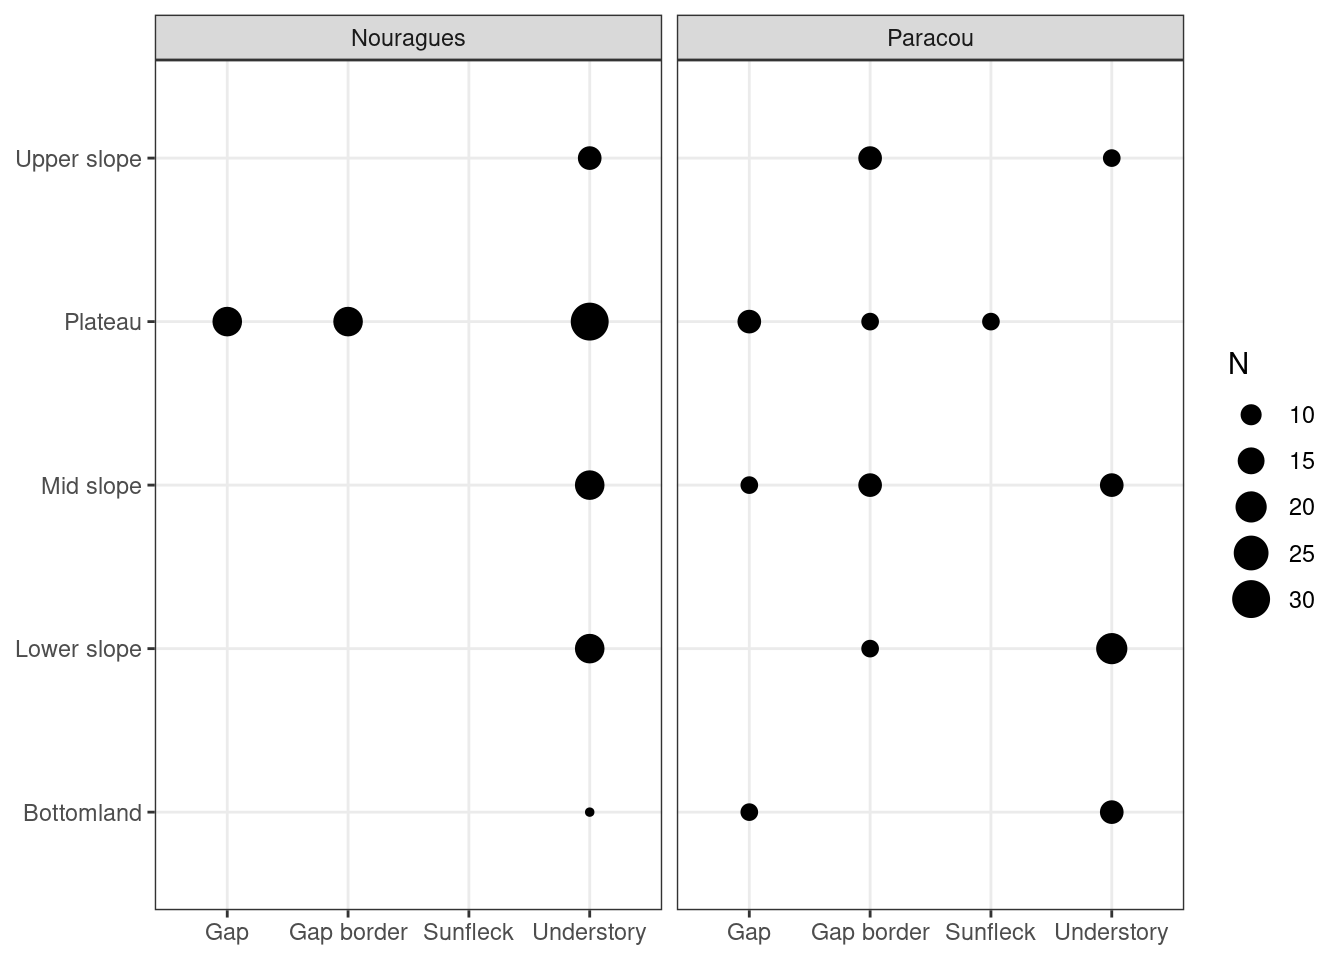
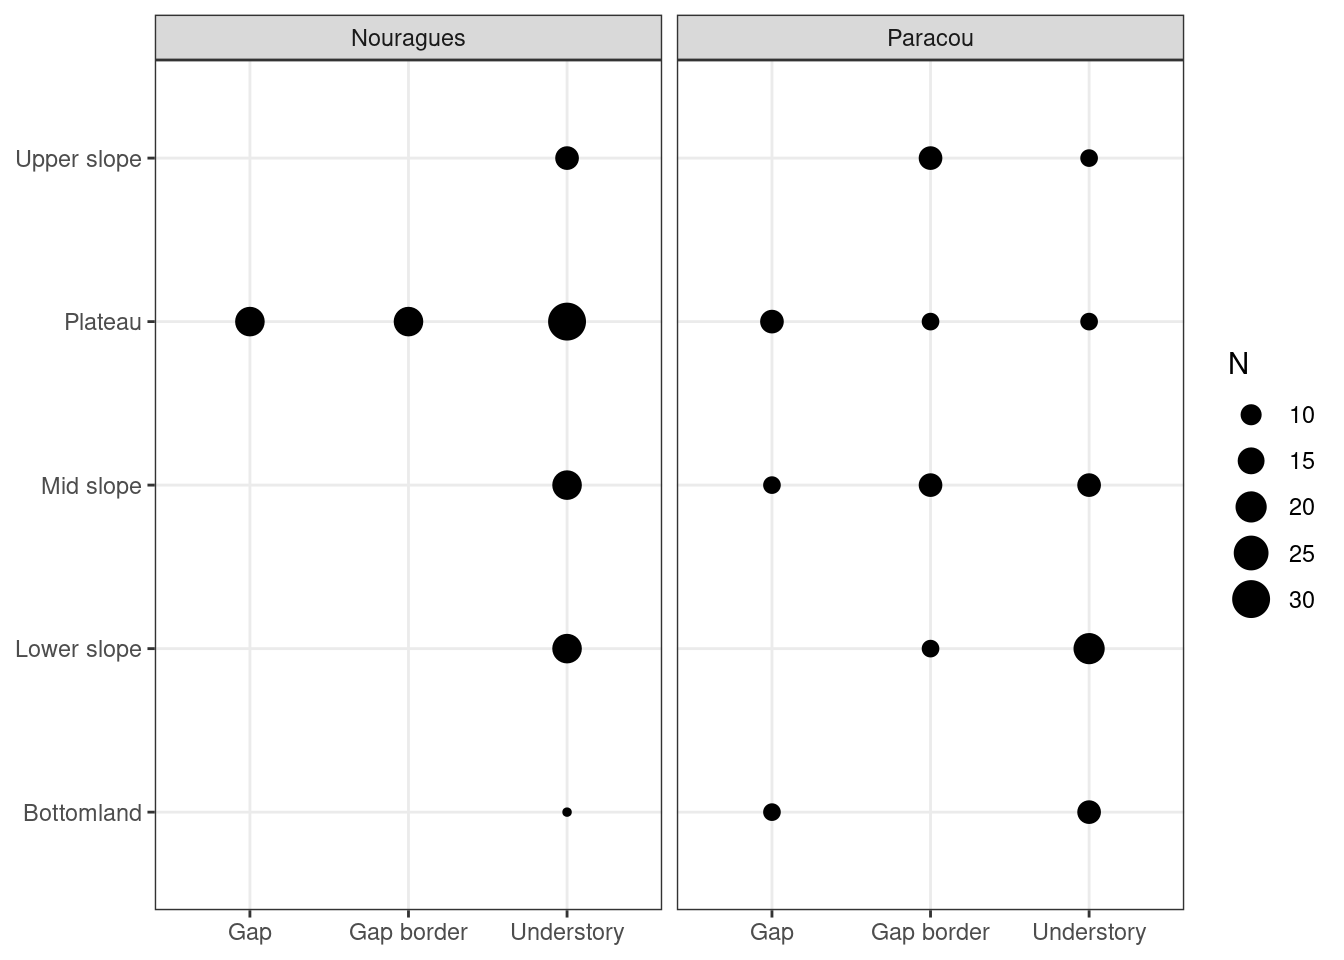
microclim 0.1.0.9002: data granulometry

diff --git a/docs/01_data.html b/docs/01_data.html
@@ -259,7 +259,8 @@ pre > code.sourceCode > span > a:first-child::before { text-decoration: underlin
 <span id="cb1-27"><a href="#cb1-27" aria-hidden="true" tabindex="-1"></a>  <span class="fu">mutate</span>(<span class="at">date =</span> <span class="fu">as_date</span>(<span class="fu">as.POSIXct</span>(date, <span class="at">format =</span> <span class="st">"%d-%m-%Y"</span>))) <span class="sc">%&gt;%</span> </span>
 <span id="cb1-28"><a href="#cb1-28" aria-hidden="true" tabindex="-1"></a>  <span class="fu">mutate</span>(<span class="at">info_date =</span> <span class="fu">as_date</span>(<span class="fu">as.POSIXct</span>(info_date, <span class="at">format =</span> <span class="st">"%d_%m_%Y"</span>)))</span>
 <span id="cb1-29"><a href="#cb1-29" aria-hidden="true" tabindex="-1"></a><span class="fu">bind_rows</span>(nouragues, paracou) <span class="sc">%&gt;%</span> </span>
-<span id="cb1-30"><a href="#cb1-30" aria-hidden="true" tabindex="-1"></a>  <span class="fu">write_tsv</span>(<span class="st">"outputs/tomst_infos.tsv"</span>)</span></code><button title="Copy to Clipboard" class="code-copy-button"><i class="bi"></i></button></pre></div>
+<span id="cb1-30"><a href="#cb1-30" aria-hidden="true" tabindex="-1"></a>  <span class="fu">mutate</span>(<span class="at">light =</span> <span class="fu">recode</span>(light, <span class="st">"Sunfleck"</span> <span class="ot">=</span> <span class="st">"Understory"</span>)) <span class="sc">%&gt;%</span> </span>
+<span id="cb1-31"><a href="#cb1-31" aria-hidden="true" tabindex="-1"></a>  <span class="fu">write_tsv</span>(<span class="st">"outputs/tomst_infos.tsv"</span>)</span></code><button title="Copy to Clipboard" class="code-copy-button"><i class="bi"></i></button></pre></div>
 </details>
 </div>
 <div class="cell">
@@ -289,16 +290,16 @@ pre > code.sourceCode > span > a:first-child::before { text-decoration: underlin
 <li><strong>plot</strong>: Petit Plateau or P16</li>
 <li><strong>subplot</strong>: subplot number</li>
 <li><strong>tomst_id</strong>: tomst ID</li>
-<li><strong>tomst_sensornum</strong>: ?</li>
+<li><strong>tomst_sensornum</strong>: tomst manufacturer ID</li>
 <li><strong>transect</strong>: gap or topography effect</li>
 <li><strong>light:</strong> gap type</li>
 <li><strong>topography</strong>: topography type</li>
 <li><strong>layon</strong>: is it near the layon</li>
-<li><strong>date</strong>: installation date?</li>
+<li><strong>date</strong>: installation date</li>
 <li><strong>operator</strong>: Vincyane or Jérôme</li>
 <li><strong>closest_trees</strong>: closest tree number in Nouragues or the three closest tree numbers and distances for Paracou (number:distance)</li>
 <li><strong>gps</strong>: gps coordinates in Nouragues</li>
-<li><strong>after_gap</strong>: ?</li>
+<li><strong>after_gap</strong>: before of after the Nouragues’ gap</li>
 <li><strong>info_date</strong>: date for the information</li>
 <li><strong>info</strong>: information on the tomst</li>
 </ul>
@@ -355,6 +356,51 @@ pre > code.sourceCode > span > a:first-child::before { text-decoration: underlin
 </section>
 <section id="granulometry" class="level2">
 <h2 class="anchored" data-anchor-id="granulometry">Granulometry</h2>
+<div class="cell">
+<details>
+<summary>Code</summary>
+<div class="sourceCode cell-code" id="cb5"><pre class="sourceCode r code-with-copy"><code class="sourceCode r"><span id="cb5-1"><a href="#cb5-1" aria-hidden="true" tabindex="-1"></a>nouragues <span class="ot">&lt;-</span> <span class="fu">vroom</span>(<span class="st">"data/Tomst_humidity_granulo_parameters/Nouragues_Tomst_humidity_granulo_parameters.csv"</span>) <span class="sc">%&gt;%</span> </span>
+<span id="cb5-2"><a href="#cb5-2" aria-hidden="true" tabindex="-1"></a>  <span class="fu">rename_all</span>(tolower) <span class="sc">%&gt;%</span> </span>
+<span id="cb5-3"><a href="#cb5-3" aria-hidden="true" tabindex="-1"></a>  <span class="fu">select</span>(<span class="sc">-</span><span class="st">"...1"</span>) <span class="sc">%&gt;%</span> </span>
+<span id="cb5-4"><a href="#cb5-4" aria-hidden="true" tabindex="-1"></a>  <span class="fu">mutate</span>(<span class="at">site =</span> <span class="st">"Nouragues"</span>)</span>
+<span id="cb5-5"><a href="#cb5-5" aria-hidden="true" tabindex="-1"></a>paracou <span class="ot">&lt;-</span> <span class="fu">vroom</span>(<span class="st">"data/Tomst_humidity_granulo_parameters/Paracou_Tomst_humidity_granulo_parameters.csv"</span>) <span class="sc">%&gt;%</span> </span>
+<span id="cb5-6"><a href="#cb5-6" aria-hidden="true" tabindex="-1"></a>  <span class="fu">rename_all</span>(tolower) <span class="sc">%&gt;%</span> </span>
+<span id="cb5-7"><a href="#cb5-7" aria-hidden="true" tabindex="-1"></a>  <span class="fu">select</span>(<span class="sc">-</span><span class="st">"...1"</span>) <span class="sc">%&gt;%</span> </span>
+<span id="cb5-8"><a href="#cb5-8" aria-hidden="true" tabindex="-1"></a>  <span class="fu">mutate</span>(<span class="at">site =</span> <span class="st">"Paracou"</span>)</span>
+<span id="cb5-9"><a href="#cb5-9" aria-hidden="true" tabindex="-1"></a><span class="fu">bind_rows</span>(nouragues, paracou) <span class="sc">%&gt;%</span> </span>
+<span id="cb5-10"><a href="#cb5-10" aria-hidden="true" tabindex="-1"></a>  <span class="fu">rename</span>(<span class="at">clay =</span> argiles, <span class="at">sand =</span> sables, <span class="at">silt =</span> limons) <span class="sc">%&gt;%</span> </span>
+<span id="cb5-11"><a href="#cb5-11" aria-hidden="true" tabindex="-1"></a>  <span class="fu">select</span>(<span class="sc">-</span>sum_st) <span class="sc">%&gt;%</span> </span>
+<span id="cb5-12"><a href="#cb5-12" aria-hidden="true" tabindex="-1"></a>  <span class="fu">write_tsv</span>(<span class="st">"outputs/granulo.tsv"</span>)</span></code><button title="Copy to Clipboard" class="code-copy-button"><i class="bi"></i></button></pre></div>
+</details>
+</div>
+<div class="cell">
+<details>
+<summary>Code</summary>
+<div class="sourceCode cell-code" id="cb6"><pre class="sourceCode r code-with-copy"><code class="sourceCode r"><span id="cb6-1"><a href="#cb6-1" aria-hidden="true" tabindex="-1"></a><span class="fu">read_tsv</span>(<span class="st">"outputs/granulo.tsv"</span>) <span class="sc">%&gt;%</span> </span>
+<span id="cb6-2"><a href="#cb6-2" aria-hidden="true" tabindex="-1"></a>  <span class="fu">gather</span>(variable, value, <span class="sc">-</span>topography, <span class="sc">-</span>site) <span class="sc">%&gt;%</span> </span>
+<span id="cb6-3"><a href="#cb6-3" aria-hidden="true" tabindex="-1"></a>  <span class="fu">ggplot</span>(<span class="fu">aes</span>(site, value, <span class="at">fill =</span> topography)) <span class="sc">+</span></span>
+<span id="cb6-4"><a href="#cb6-4" aria-hidden="true" tabindex="-1"></a>  <span class="fu">geom_col</span>(<span class="at">position =</span> <span class="st">"dodge"</span>) <span class="sc">+</span></span>
+<span id="cb6-5"><a href="#cb6-5" aria-hidden="true" tabindex="-1"></a>  <span class="fu">facet_wrap</span>(<span class="sc">~</span> variable, <span class="at">scales =</span> <span class="st">"free_y"</span>) <span class="sc">+</span></span>
+<span id="cb6-6"><a href="#cb6-6" aria-hidden="true" tabindex="-1"></a>  <span class="fu">theme_bw</span>() <span class="sc">+</span></span>
+<span id="cb6-7"><a href="#cb6-7" aria-hidden="true" tabindex="-1"></a>  <span class="fu">theme</span>(<span class="at">legend.position =</span> <span class="st">"bottom"</span>, <span class="at">axis.title =</span> <span class="fu">element_blank</span>())</span></code><button title="Copy to Clipboard" class="code-copy-button"><i class="bi"></i></button></pre></div>
+</details>
+<div class="cell-output-display">
+<div class="quarto-figure quarto-figure-center">
+<figure class="figure">
+<p><img src="01_data_files/figure-html/granulofig-1.png" class="img-fluid figure-img" width="672"></p>
+<figcaption class="figure-caption">Caption.</figcaption>
+</figure>
+</div>
+</div>
+</div>
+<p>Variables:</p>
+<ul>
+<li><strong>site</strong>: Paracou or Nouragues</li>
+<li><strong>topography</strong>: topography type</li>
+<li><strong>silt, clay, sand</strong>: silt, clay, sand content (%)</li>
+<li><strong>bulkdensity</strong>: bulk density (g/cm3)</li>
+<li><strong>a</strong>, <strong>b</strong>, <strong>c</strong>: coefficient to compute the volumetric moisture content (%) as <em>theta=ax^2+bx+c</em></li>
+</ul>
 </section>
 <section id="tomst-calibration" class="level2">
 <h2 class="anchored" data-anchor-id="tomst-calibration">Tomst calibration</h2>

diff --git a/NEWS.md b/NEWS.md
@@ -1,2 +1,2 @@
--   
+-   microclim 0.1.0.9002: data granulometry
 -   microclim 0.1.0.9001: tomst info & guyaflux
